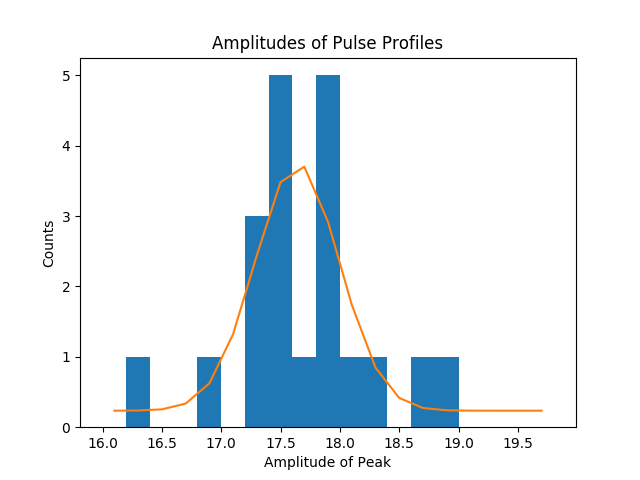
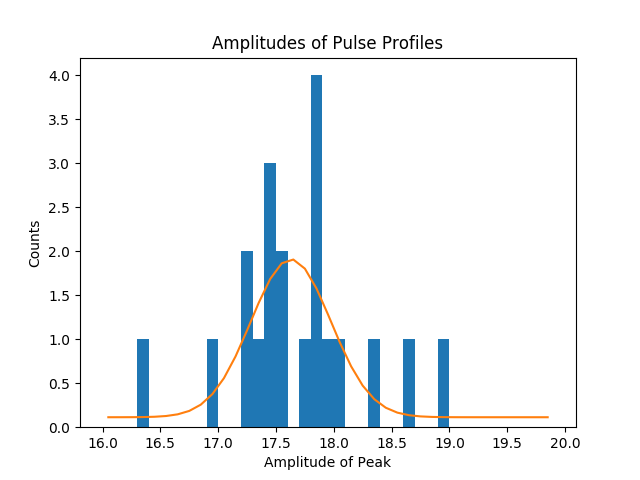
updated for crab

diff --git a/PulseCharacteristics/ampfit.py b/PulseCharacteristics/ampfit.py
@@ -16,6 +16,8 @@ Makes a histogram of the amplitudes of the peaks of the interpulses of pulse pro
 def gauss(x, a, b, c, d):  # defines gaussian function to use for curve fit
     return(a*np.exp(-((x-b)/c)**2)+d)
 
+def power(x, a, b):
+    return(a*(x**(-b)))
 
 def fit(pulsarname, timewidth):
 
@@ -133,7 +135,7 @@ def fit(pulsarname, timewidth):
     if (pulsarname == '1821'):
         binwidths = list(np.arange(0,0.015 , 0.00025))
     if (pulsarname == 'crab'):
-        binwidths = list(np.arange(16, 20, 0.2))
+        binwidths = list(np.arange(16, 20, 0.1))
     plt.hist(amplitudes, bins = binwidths) # makes histogram of amplitudes
   
     # Makes a line plot from the histogram
@@ -191,8 +193,10 @@ for twidth in range(60, 210, 30):
     width.append(w)
     errorbars.append(e)
     timewidth.append(twidth)
-plt.plot(timewidth, width, marker='o', color = 'b')
-plt.errorbar(timewidth, width, yerr = errorbars, color = 'b')
+#plt.plot(timewidth, width, 'o')
+popt, pcov = curve_fit(power, timewidth, width)
+plt.plot(timewidth, power(timewidth, *popt))
+plt.errorbar(timewidth, width, yerr = errorbars, fmt = 'o')
 plt.title("Widths of Amplitude Histograms")
 plt.xlabel("Timewidth (seconds)")
 plt.ylabel("Width (counts/second)")
